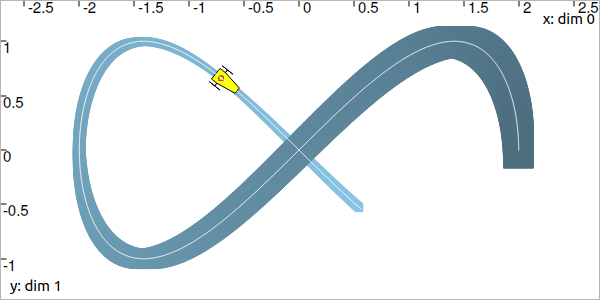
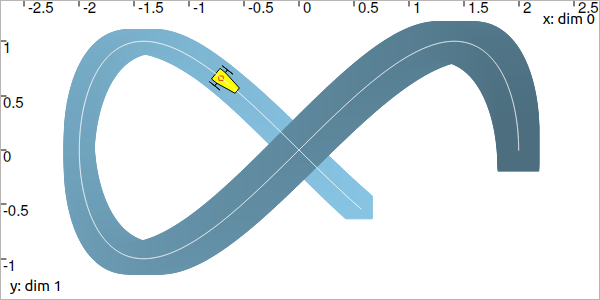
[doc] CtcEval

Changed region(s): [[0.09, 0.06, 0.9, 0.93]]

diff --git a/doc/user_manual/manual/05-dynamic-contractors/02-ctc-eval.rst b/doc/user_manual/manual/05-dynamic-contractors/02-ctc-eval.rst
@@ -1,10 +1,5 @@
 .. _sec-manual-ctceval:
 
-.. warning::
-  
-  This part of the documentation is deprecated. Several changes are currently perfomed on the library.
-  A new stable version of Tubex will be released in the coming weeks.
-
 ***************************
 CtcEval: :math:`y_i=x(t_i)`
 ***************************
@@ -41,13 +36,101 @@ Definition
   * the same *t*-domain :math:`[t_0,t_f]`
   * the same dimension of :math:`[y_i]` in the vector case
 
+Theoretical illustration
+------------------------
 
-Example
--------
+
+
+
+Localization example
+--------------------
+
+.. rubric:: Contracting the tube
+
+Let us come back to the Lissajous example :ref:`of the previous page <sec-manual-ctcderiv-localization>`.
+
+Assume now that we have no knowledge on :math:`[\mathbf{x}](\cdot)`, except that the feasible trajectories go through the box :math:`[\mathbf{b}]=[-0.73,-0.69]\times[0.64,0.68]` at some time :math:`t\in[4.3,4.4]`.
+
+The tube is contracted over :math:`[t_0,t_f]` with its uncertain derivative :math:`[\mathbf{v}](\cdot)` given by:
+
+.. math::
+
+  [\mathbf{v}](t) = \left(\begin{array}{c}-2\sin(t)\\2\cos(2t)\end{array}\right)+\left(\begin{array}{c} [-0.01,0.01]\\ [-0.01,0.01]\end{array}\right)
+
+.. tabs::
+
+  .. code-tab:: c++
+
+    // No initial knowledge on [x](·)
+    double dt = 0.01;
+    Interval tdomain(0.,5.);
+    TubeVector x(tdomain, dt, 2); // initialization with [-∞,∞]×[-∞,∞]
+
+    // New values for the temporal evaluation of [x](·)
+    Interval t(4.3,4.4);
+    IntervalVector b({{-0.73,-0.69},{0.64,0.68}});
+
+    // Uncertain derivative of [x](·)
+    TubeVector v(tdomain, dt, Function("(-2*sin(t) ; 2*cos(2*t))"));
+    v.inflate(0.01);
+
+    // Contraction
+    CtcEval ctc_eval;
+    ctc_eval.contract(t, b, x, v);
+    // Note that in this case, no contraction is performed on [t] and [b]
+    // Note also that we could use directly ctc::eval.contract(t, b, x, v)
+
+  .. code-tab:: py
+
+    # todo
+
+The obtained tube is blue painted on the figure, the contraction to keep the trajectories going through :math:`[\mathbf{b}]` (red box) over :math:`[t]=[4.3,4.4]` is propagated over the whole *t*-domain:
+
+.. figure:: img/ceval_lissajous_tube.png
+
+
+.. #include <tubex.h>
+.. #include <tubex-rob.h>
+.. 
+.. using namespace std;
+.. using namespace tubex;
+.. 
+.. int main()
+.. {
+..   double dt = 0.01;
+..   Interval tdomain(0.,5.);
+..   TrajectoryVector x_truth(tdomain, Function("(2*cos(t) ; sin(2*t))"));
+.. 
+..   TubeVector x(tdomain, dt, 2);
+.. 
+..   TubeVector v(tdomain, dt, Function("(-2*sin(t) ; 2*cos(2*t))"));
+..   v.inflate(0.01);
+.. 
+..   vibes::beginDrawing();
+.. 
+..   VIBesFigMap fig_map("Map");
+..   fig_map.set_properties(1450, 50, 600, 300);
+..   fig_map.add_trajectory(&x_truth, "x*", 0, 1, "white");
+..   fig_map.add_tube(&x, "x", 0, 1);
+..   fig_map.smooth_tube_drawing(true);
+.. 
+..   Interval t(4.3,4.4);
+..   IntervalVector b({{-0.73,-0.69},{0.64,0.68}});
+.. 
+..   fig_map.draw_box(b, "#076594");
+..   ctc::eval.contract(t, b, x, v);
+..   fig_map.draw_vehicle(t.mid(), &x_truth, 0.25);
+..   fig_map.draw_box(b, "#D74400");
+.. 
+..   fig_map.axis_limits(-0.1,0.1,-1.3,1.3, true);
+..   fig_map.show(0.);
+.. 
+..   vibes::endDrawing();
+.. }
+
 
 .. rubric:: Contracting the evaluation box
 
-Let us come back to :ref:`the Lissajous example<sec-manual-vardyn-lissajous>` introduced to present the use of trajectories.
 Assume now that we know the actual trajectory to be bounded within the tube:
 
 .. math::
@@ -58,8 +141,6 @@ Assume now that we know the actual trajectory to be bounded within the tube:
 
   .. code-tab:: c++
 
-    double dt = 0.01;
-    Interval tdomain(0.,5.);
     TubeVector x(tdomain, dt, Function("(2*cos(t) ; sin(2*t))"));
     x.inflate(0.05);
 
@@ -78,10 +159,9 @@ The :math:`\mathcal{C}_{\textrm{eval}}` can be used to evaluate the position tim
 
   .. code-tab:: c++
 
-    Interval t;
-    IntervalVector b = {{-1.,0.},{0.4,1.2}};       // (blue on the figure)
+    t = Interval::all_reals(); // new initialization
+    b = {{-1.,0.},{0.4,1.2}}; // (blue box on the figure)
 
-    CtcEval ctc_eval;
     ctc_eval.contract(t, b, x);
 
     // [t] estimated to [4.15, 4.54]
@@ -120,6 +200,8 @@ The :math:`\mathcal{C}_{\textrm{eval}}` can be used to evaluate the position tim
 ..   ctc::eval.contract(t, b, x);
 ..   fig_map.draw_vehicle(t.mid(), &x_truth, 0.25);
 ..   fig_map.draw_box(b, "#D74400");
+..
+..   cout << t << b << endl;
 .. 
 ..   fig_map.axis_limits(-0.1,0.1,-1.3,1.3, true);
 ..   fig_map.show(0.);
@@ -127,41 +209,6 @@ The :math:`\mathcal{C}_{\textrm{eval}}` can be used to evaluate the position tim
 ..   vibes::endDrawing();
 .. }
 
-.. rubric:: Contracting the tube
-
-We now assume that we have no knowledge on :math:`[\mathbf{x}](\cdot)`, except that the feasible trajectories go through the box :math:`[-0.73,-0.69]\times[0.64,0.68]` at :math:`t=4.35`.
-
-The tube is contracted over :math:`[t_0,t_f]` with its uncertain derivative :math:`[\mathbf{v}](\cdot)` given by:
-
-.. math::
-
-  [\mathbf{v}](t) = \left(\begin{array}{c}-2\sin(t)\\2\cos(2t)\end{array}\right)+\left(\begin{array}{c} [-0.02,0.02]\\ [-0.02,0.02]\end{array}\right)
-
-.. tabs::
-
-  .. code-tab:: c++
-
-    // No knowledge on [x](·)
-    x.set(IntervalVector(2)); // initialization with [-∞,∞]×[-∞,∞]
-
-    // New values for the temporal evaluation of [x](·)
-    t = 4.35;
-    b = {{-0.73,-0.69},{0.64,0.68}};
-
-    // Derivative of [x](·)
-    TubeVector v(tdomain, dt, Function("(-2*sin(t) ; 2*cos(2*t))"));
-    v.inflate(0.02);
-
-    // Contraction
-    ctc_eval.contract(t, b, x, v);
-
-  .. code-tab:: py
-
-    # todo
-
-The obtained tube is blue painted on the figure, the contraction at :math:`t=4.35` (red box) is propagated over the whole *t*-domain:
-
-.. figure:: img/ceval_lissajous_tube.png
 
 
 Related content

diff --git a/doc/user_manual/manual/05-dynamic-contractors/01-ctc-deriv.rst b/doc/user_manual/manual/05-dynamic-contractors/01-ctc-deriv.rst
@@ -37,8 +37,8 @@ Definition
   * the same dimension in the vector case
 
 
-Theoretical example
--------------------
+Theoretical illustration
+------------------------
 
 Here is an example of a consistency state reached with :math:`\mathcal{C}_{\frac{d}{dt}}` over a set of trajectories and their feasible derivatives.
 
@@ -115,6 +115,8 @@ Only :math:`[x](\cdot)` is contracted (it can be theoretically proved that :math
 ..   return EXIT_SUCCESS;
 .. }
 
+
+.. _sec-manual-ctcderiv-localization:
 
 Localization example
 --------------------
